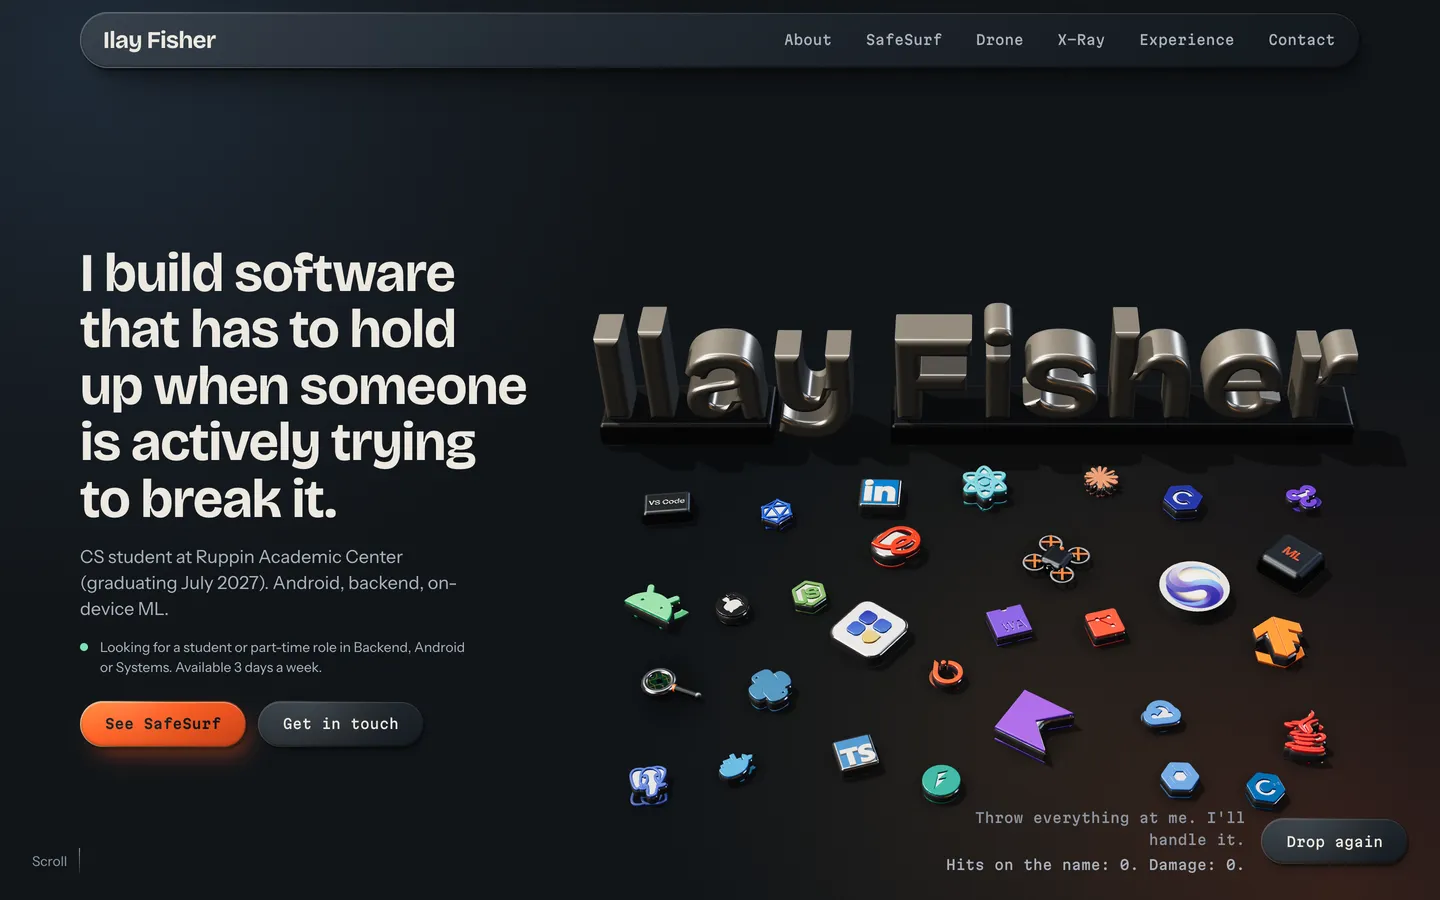
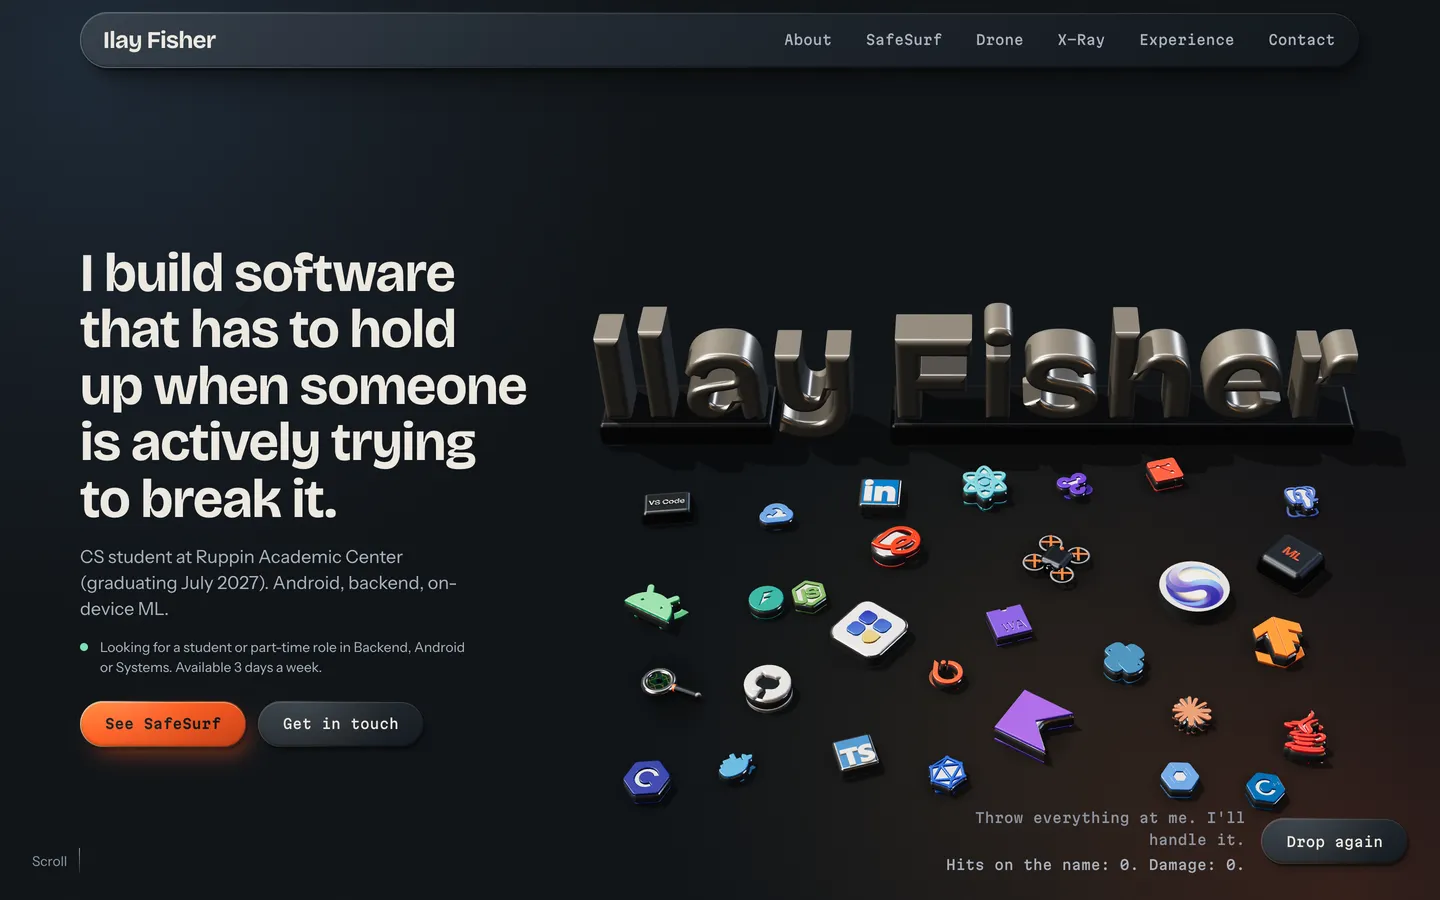
fix(hero): GitHub piece is the white mark with a recessed octocat, sized like LinkedIn
White near-white ceramic disc, the cat cut out down to a GitHub-black plate so
its edge throws a shadow; plate diameter equals the LinkedIn tile side, collider
is a 12-gon around the disc, finer curve sampling for the ears and tail.
Stills and screenshots regenerated.

diff --git a/src/sections/Hero/scene/geometry.ts b/src/sections/Hero/scene/geometry.ts
@@ -34,7 +34,13 @@ import {
   iconToFace,
   tileAt,
 } from '../logic/safeguardIcon';
-import { BADGE_CORNER, roundedSquareOutline, tokenFootprint } from '../logic/token';
+import {
+  BADGE_CORNER,
+  DISC_PLATE_RADIUS,
+  FILLED_TOKENS,
+  roundedSquareOutline,
+  tokenFootprint,
+} from '../logic/token';
 import { MARKS } from './marks';
 import { TOKEN_SHAPES } from './tokenData';
 
@@ -129,6 +135,8 @@ function inlayGeometry(shapes: Shape[], height: number, bevel: number) {
 
 /** The official mark as shapes in plate coordinates: centred on the plate, scaled, y down becomes +z. */
 function markShapes(slug: string, unit: number): Shape[] {
+  // Finer curve sampling on the filled disc: the octocat's ears and tail are what the piece is recognised by.
+  const divisions = FILLED_TOKENS.has(slug) ? 20 : 6;
   const mark = MARKS[slug];
   const t = TOKEN_SHAPES[slug];
   if (!mark || !t) return [];
@@ -139,7 +147,7 @@ function markShapes(slug: string, unit: number): Shape[] {
   const tx = (v: Vector2) => new Vector2((v.x - t.cx) * unit, -(v.y - t.cy) * unit);
   for (const p of data.paths)
     for (const sh of SVGLoader.createShapes(p)) {
-      const { shape, holes } = sh.extractPoints(6);
+      const { shape, holes } = sh.extractPoints(divisions);
       const s = new Shape(shape.map(tx));
       s.holes = holes.map((hole) => new Path(hole.map(tx)));
       out.push(s);
@@ -214,13 +222,6 @@ function buildKey(spec: ObjectSpec, m: MaterialSet): Group {
   return group;
 }
 
-/**
- * Tokens whose mark has an inner cut-out that opens onto its outer edge (the octocat's tail meets the GitHub disc's
- * rim), so the die-cut silhouette would be a C with the cut-out showing the floor. They sit on a full disc instead,
- * the mark's own outline, so the cut-out reads as the light plate behind the dark mark, as in the logo.
- */
-const FILLED_TOKENS: ReadonlySet<string> = new Set(['github']);
-
 /** A circle of radius `r` on the floor plane as a plate outline. */
 function discLoop(r: number): Array<[number, number]> {
   const n = 72;
@@ -240,7 +241,7 @@ function buildToken(spec: ObjectSpec, m: MaterialSet): Group {
   const t = TOKEN_SHAPES[slug]!;
   const unit = tokenFootprint(slug, Math.max(spec.size.w, spec.size.d)).unit;
   const loops = FILLED_TOKENS.has(slug)
-    ? [discLoop((t.w / 2) * unit)]
+    ? [discLoop(DISC_PLATE_RADIUS * unit)]
     : t.cut.map((flat) => {
         const pts: Array<[number, number]> = [];
         for (let i = 0; i < flat.length; i += 2) pts.push([flat[i]! * unit, flat[i + 1]! * unit]);
@@ -249,7 +250,8 @@ function buildToken(spec: ObjectSpec, m: MaterialSet): Group {
   const group = new Group();
   const plate = mesh(plateGeometry(loops, h, h * 0.3), [m.body, m.rim ?? m.metal]);
   group.add(plate);
-  const raise = h * 0.2;
+  // A filled disc is raised higher: the cut-out is a real recess whose wall throws a shadow line.
+  const raise = h * (FILLED_TOKENS.has(slug) ? 0.4 : 0.2);
   const mk = mesh(inlayGeometry(markShapes(slug, unit), raise, raise * 0.35), m.ink ?? m.polished);
   mk.position.y = h / 2 - 0.002;
   group.add(mk);

diff --git a/src/sections/Hero/logic/token.ts b/src/sections/Hero/logic/token.ts
@@ -12,22 +12,37 @@ export interface TokenFootprint {
 }
 
 /**
+ * Tokens whose mark has an inner cut-out that opens onto its outer edge (the octocat's tail meets the GitHub disc's
+ * rim), so the die-cut silhouette would be a C with the cut-out showing the floor. They sit on a full disc instead,
+ * the mark's outline, so the cut-out is a recess in the disc.
+ */
+export const FILLED_TOKENS: ReadonlySet<string> = new Set(['github']);
+
+/** Radius of the filled disc's plate in mark units (the 24 wide mark plus the die-cut margin). */
+export const DISC_PLATE_RADIUS = 12.95;
+
+/** Convex collider of a filled disc: a 12-gon whose flat sides stay outside the plate circle. */
+const DISC_HULL = regularPolygon(12, 13.6);
+
+/**
  * Footprint of the die-cut token for a mark, scaled so its longest plate side is `maxDim`. Mark y (down)
  * becomes world z (toward the camera), so the mark reads upright from the front.
  */
 export function tokenFootprint(slug: string, maxDim: number): TokenFootprint {
   const t = TOKEN_SHAPES[slug];
   if (!t) throw new Error(`no token shape for ${slug}`);
+  const hullFlat = FILLED_TOKENS.has(slug) ? DISC_HULL.flat() : t.hull;
   // The collider can reach a hair past the plate box (its corners are extended), so size from the collider.
   let hx = 0;
   let hz = 0;
-  for (let i = 0; i < t.hull.length; i += 2) {
-    hx = Math.max(hx, Math.abs(t.hull[i]!));
-    hz = Math.max(hz, Math.abs(t.hull[i + 1]!));
+  for (let i = 0; i < hullFlat.length; i += 2) {
+    hx = Math.max(hx, Math.abs(hullFlat[i]!));
+    hz = Math.max(hz, Math.abs(hullFlat[i + 1]!));
   }
   const unit = maxDim / (2 * Math.max(hx, hz));
   const hull: Array<[number, number]> = [];
-  for (let i = 0; i < t.hull.length; i += 2) hull.push([t.hull[i]! * unit, t.hull[i + 1]! * unit]);
+  for (let i = 0; i < hullFlat.length; i += 2)
+    hull.push([hullFlat[i]! * unit, hullFlat[i + 1]! * unit]);
   const radius = hull.reduce((m, [x, z]) => Math.max(m, Math.hypot(x, z)), 0);
   return { unit, w: 2 * hx * unit, d: 2 * hz * unit, hull, radius };
 }

diff --git a/src/sections/Hero/scene/materials.ts b/src/sections/Hero/scene/materials.ts
@@ -21,10 +21,12 @@ const TOKEN_ENAMEL = '#ecebe5';
 const ICON_FACE_WHITE = '#f3f2ee';
 
 /**
- * GitHub: the mark is GitHub black (#1f2328) by nature, so the raised disc is a glossy near-black ceramic on the cream
- * enamel of the other tokens. The cat is the enamel showing through the mark's own cut-out: light on dark, as in the logo.
+ * GitHub: GitHub's mark for dark backgrounds is white. The raised disc is white ceramic (a touch off pure white so
+ * the key light does not clip) and the octocat is its cut-out, a recess down to a GitHub-black enamel plate.
  */
 const GITHUB_BLACK = '#1f2328';
+/** The white of the GitHub disc, the same off-white family as the SafeGuard tile and the badge letters. */
+const GITHUB_WHITE = '#f3f2ee';
 /** The white of a badge's raised letters (TypeScript, LinkedIn); a touch off pure white so the key light does not clip. */
 const BADGE_WHITE = '#f4f4f0';
 
@@ -51,7 +53,7 @@ export function bodyMaterial(spec: ObjectSpec, palette: Palette): MeshPhysicalMa
   }
   if (spec.kind === 'token' && spec.mark && MARKS[spec.mark]) {
     return new MeshPhysicalMaterial({
-      color: TOKEN_ENAMEL,
+      color: spec.mark === 'github' ? GITHUB_BLACK : TOKEN_ENAMEL,
       roughness: 0.26,
       metalness: 0.04,
       clearcoat: 1,
@@ -163,8 +165,8 @@ export function materialSet(
   const ink =
     spec.mark === 'github' && spec.kind === 'token'
       ? new MeshPhysicalMaterial({
-          color: GITHUB_BLACK,
-          roughness: 0.28,
+          color: GITHUB_WHITE,
+          roughness: 0.3,
           metalness: 0.1,
           clearcoat: 0.9,
           clearcoatRoughness: 0.1,

diff --git a/src/sections/Hero/logic/catalogue.test.ts b/src/sections/Hero/logic/catalogue.test.ts
@@ -157,7 +157,8 @@ describe('piece sizes per breakpoint', () => {
 
   it('makes tokens and keycaps shrink by tier: A larger than B larger than C', () => {
     const c = buildCatalogue('desktop');
-    for (const group of [keycaps(c), tokens(c)]) {
+    // GitHub is a filled disc sized to the LinkedIn tile on purpose, so it is outside the tier ladder.
+    for (const group of [keycaps(c), tokens(c).filter((s) => s.mark !== 'github')]) {
       // A keycap's size is its depth (a wide legend only stretches the width); a token's is its longest side.
       const dim = (s: ObjectSpec) => (s.kind === 'key' ? s.size.d : Math.max(s.size.w, s.size.d));
       const by = (t: string) => group.filter((s) => s.tier === t).map(dim);
@@ -167,6 +168,16 @@ describe('piece sizes per breakpoint', () => {
       if (by('B').length) expect(min(by('B'))).toBeGreaterThan(max(by('C')) - 1e-9);
       expect(min(by('A'))).toBeGreaterThan(max(by('C')));
     }
+  });
+
+  it('sizes the GitHub disc to the LinkedIn tile: plate diameter equals its side, collider follows', () => {
+    const c = buildCatalogue('desktop');
+    const gh = c.find((s) => s.id === 'token-github')!;
+    const li = c.find((s) => s.id === 'linkedin')!;
+    // The plate is 25.9 mark units of a collider that spans 27.2.
+    const plate = Math.max(gh.size.w, gh.size.d) * (25.9 / 27.2);
+    expect(plate).toBeCloseTo(li.size.w, 2);
+    expect(gh.radius).toBeGreaterThanOrEqual(plate / 2);
   });
 
   it('keeps the logo, drone, lens and shield big enough to read at a glance (at least a tier B token)', () => {

diff --git a/src/sections/Hero/logic/catalogue.ts b/src/sections/Hero/logic/catalogue.ts
@@ -1,7 +1,13 @@
 /** The set of physical objects in the hero: what they are, how big, how heavy. DOM-free. */
 
 import { profile } from '../../../content/profile';
-import { BADGE_CORNER, roundedSquareOutline, tokenFootprint } from './token';
+import {
+  BADGE_CORNER,
+  DISC_PLATE_RADIUS,
+  FILLED_TOKENS,
+  roundedSquareOutline,
+  tokenFootprint,
+} from './token';
 
 /** Importance tier: A is the owner's top skills (largest, accent), B the next three, C everything else. */
 export type Tier = 'A' | 'B' | 'C';
@@ -199,8 +205,14 @@ const skillPiece = (s: Skill, rank: number, scale: number): ObjectSpec => {
       accentBody: false,
     };
   }
-  const f = tokenFootprint(s.mark!, t.side * scale);
-  const h = t.h * TOKEN_THICK * scale;
+  // A filled disc (GitHub) is sized by its plate diameter to match the LinkedIn tile's side (tier B).
+  const tb = FILLED_TOKENS.has(s.mark!) ? TIER_SIZE.B : t;
+  const unit1 = tokenFootprint(s.mark!, 1).unit;
+  const maxDim = FILLED_TOKENS.has(s.mark!)
+    ? (tb.side * scale) / (2 * DISC_PLATE_RADIUS * unit1)
+    : t.side * scale;
+  const f = tokenFootprint(s.mark!, maxDim);
+  const h = tb.h * TOKEN_THICK * scale;
   return {
     ...common,
     id: `token-${s.id}`,

diff --git a/docs/reports/hero-social-pieces.md b/docs/reports/hero-social-pieces.md
@@ -5,10 +5,12 @@ piece to the hero.
 
 ## What changed
 
-- **GitHub** (`token-github`): a die-cut token now, no keycap. The octocat's tail meets the disc's rim, so a pure
-  die-cut silhouette would be a C with the cat showing the floor. The plate is therefore the mark's own full disc
-  (cream enamel) with the raised GitHub-black disc on top and the cat showing the enamel, as in the logo
-  (`FILLED_TOKENS` in `scene/geometry.ts`).
+- **GitHub** (`token-github`): die-cut disc token, no keycap, no box. It uses GitHub's own white mark for dark
+  backgrounds: a raised near-white (#F3F2EE) glossy ceramic disc whose cut-out is the octocat, recessed down to a
+  GitHub-black (#1f2328) enamel plate, so the cat edge throws a shadow line. The octocat's tail meets the disc rim, so a
+  pure die-cut silhouette would be a C; the plate is therefore the full disc (`FILLED_TOKENS` in `logic/token.ts`).
+  The disc is sized to the LinkedIn tile (plate diameter = tile side), the collider is a 12-gon around the disc, and the
+  mark's curves are sampled at 20 divisions so the ears and tail stay crisp.
 - **LinkedIn** (`linkedin`): bevelled LinkedIn-blue (#0A66C2) ceramic tile with raised white "in" on both faces,
   same family as the SafeSurf and SafeGuard pieces, kind `badge`. Letters are the holes of the official path, read,
   not altered. The path is the CC0 simple-icons **12.0.0** file (current simple-icons no longer ships LinkedIn),
@@ -48,6 +50,5 @@ new piece asleep in four seeds and all layouts.
 
 ## Honest notes
 
-- The GitHub token is the weakest read: black mark on a dark stage. The cat is recognisable up close and at 1440; at
-  390 the piece is small. Not iterated further.
+- The cat is clear in the 1440 shot and the close crop; at 390 it is small but identifiable.
 - Hover and touch behaviour was verified by e2e and unit tests, not on a physical phone.
